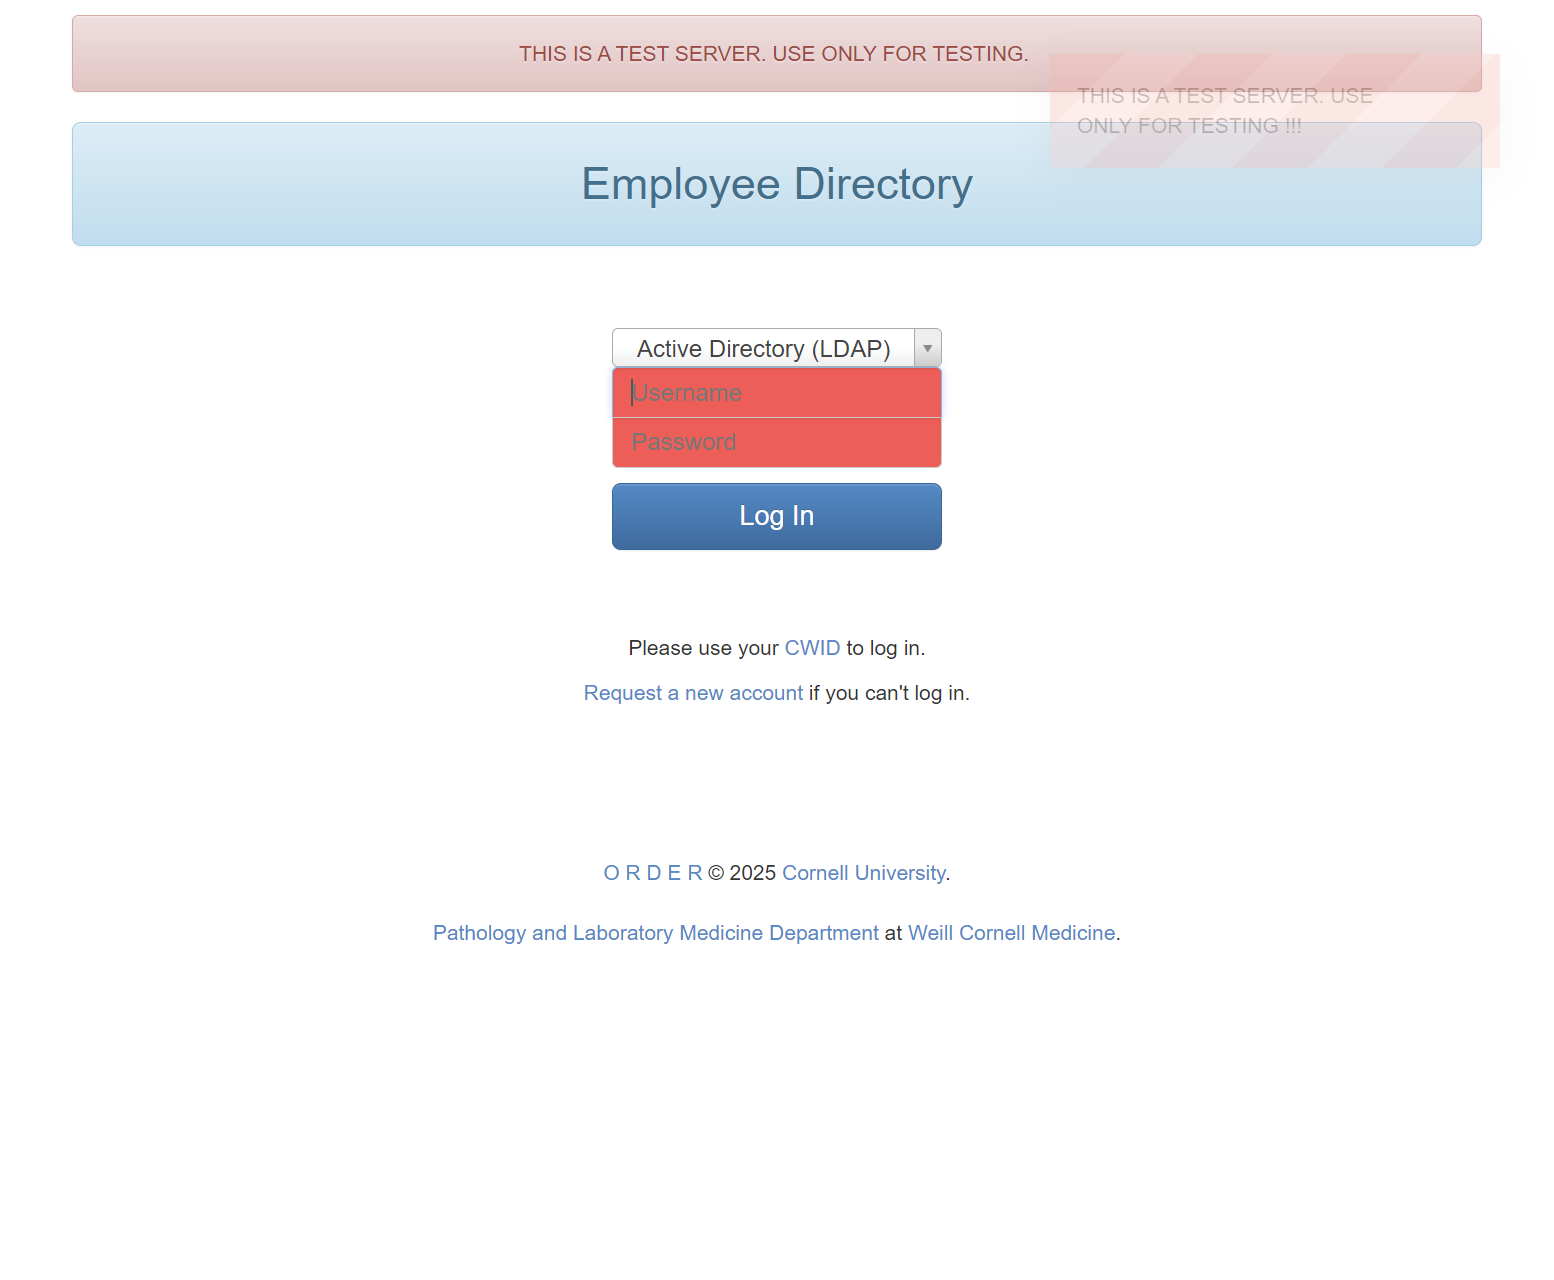
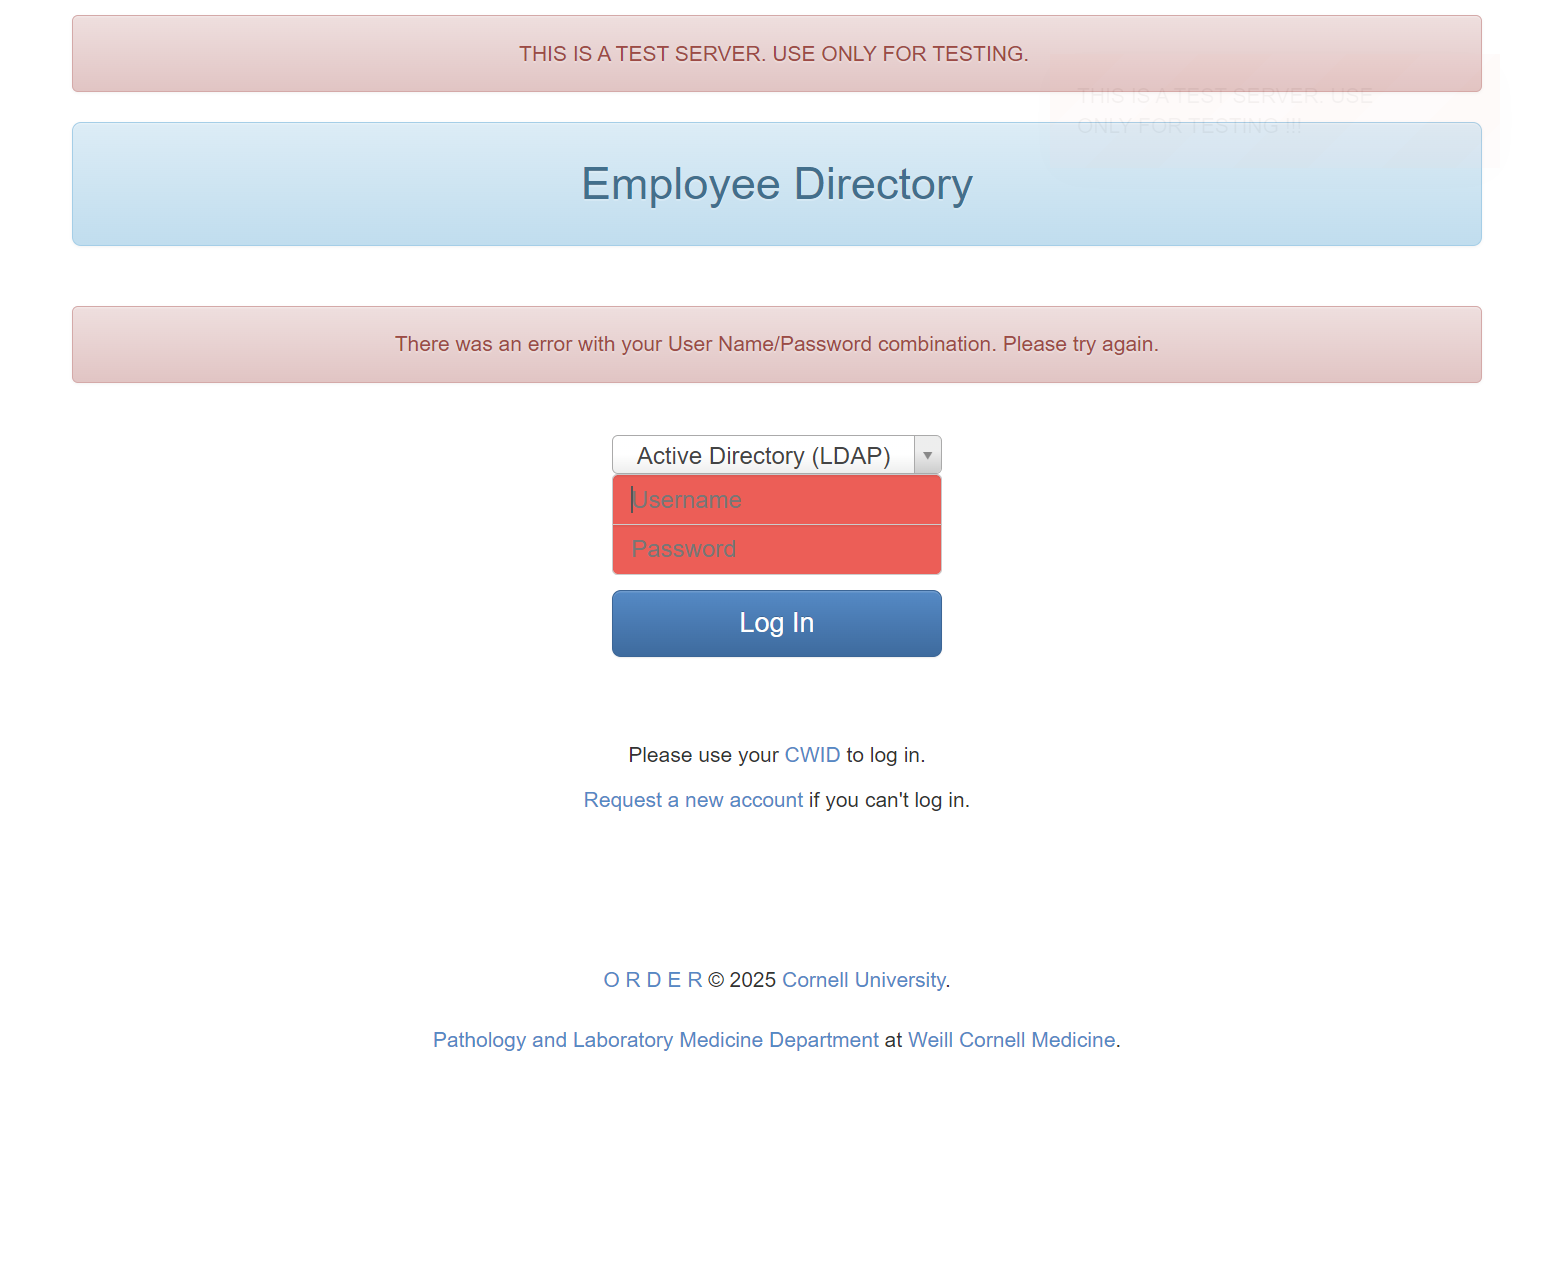
after installing panther

diff --git a/orderflex/src/App/UserdirectoryBundle/Controller/DemoDataController.php b/orderflex/src/App/UserdirectoryBundle/Controller/DemoDataController.php
@@ -205,13 +205,39 @@ class DemoDataController extends OrderAbstractController
 
 
         $url = 'https://view.online/c/demo-institution/demo-department/directory/login';
-        $client->request('GET', $url);
+        $crawler = $client->request('GET', $url);
         //$crawler = $client->waitForVisibility('#display-username');
         //echo $crawler->filter('div:has(> #s2id_usernametypeid_show)')->text();
-        //$client->clickLink('Log In');
+
+        //$client->waitForEnabled('[type="submit"]');
+        //$crawler = $client->waitForVisibility('#login-form');
+        $send_button = $crawler->selectButton('submit');
+
+//        $client->clickLink('submit');
+//        $form = $send_button->form(array(
+//            'PrCompany[email]' => 'test@example.ua',
+//            'PrCompany[first_name]' => 'Anton',
+//            'PrCompany[last_name]' => 'Tverdiuh',
+//            'PrCompany[timezone]' => 'Europe/Amsterdam'
+//        ));
+        //$crawler = $client->submit($form);
+
+        //$crawler = $client->waitForVisibility('#pnotify-notice');
+        //echo $crawler->filter('#pnotify-notice')->text();
+
+        $form = $crawler->selectButton('Log In')->form();
+        $form['_display-username'] = 'symfonyfan';
+        $form['_password'] = 'anypass';
+
+        $crawler = $client->submit($form);
+
         $client->takeScreenshot('view-online.png');
 
         exit('eof panther');
+    }
+
+    public function createUsers() {
+        $this->createUser('John', 'Doe');
     }
 
 }
